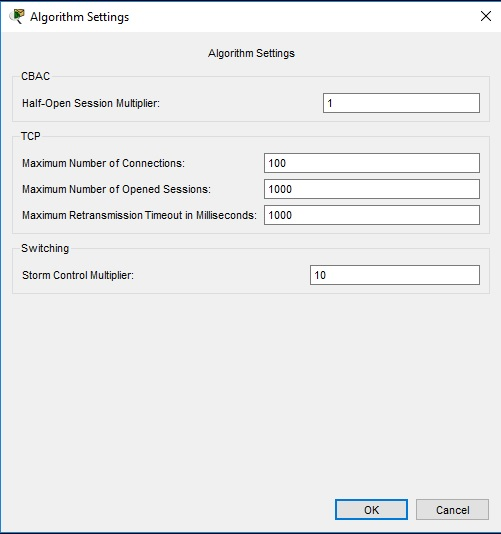
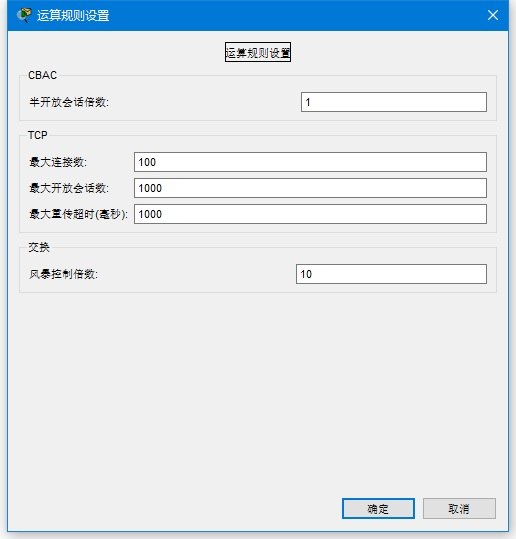
入门->首选项 翻译完毕

Changed region(s): [[0.0, 0.0, 1.0, 1.0], [0.5689, 0.1798, 0.5988, 0.2097]]

diff --git a/Simplified Chinese/preferences.htm b/Simplified Chinese/preferences.htm
@@ -161,49 +161,54 @@
       通常，当用户经历同一网络文件的多个创作周期时，这些自定义图像会累积。
       在这种情况下，该选项卡允许用户查看当前保存在文件中的自定义图像列表，并删除用户认为不再用于当前网络文件中的图像。<br />
       注意！！！一旦删除这些文件，它们可能无法恢复，除非在Packet Tracer外部保存了外部副本。<br />
-      删除仍由当前用户网络的组件之一使用的文件将导致占位符映像“找不到文件”映像被用于代替已删除的映像。
-      
-      In this case the panel at hand allows users to view the list
-      of custom images presently saved in the file and delete those that the
-      user believes are no longer used for anything in the current network file.
-      A note of caution needs to be voiced here that once these files are
-      removed from the file they may not be recoverable, unless there is an
-      external copy saved outside Packet Tracer. Removing a file that is still
-      being used by one of the components of the current user network would
-      result in the <em> placeholder image </em> <img src="images/gFileNotFound.png"
-
-        width="3%" alt="File Not Found Image">&nbsp;being used in place of the deleted one.</p>
-    <p class="myPic"> <img src="images/interfaceOverview_10.jpg" alt="Preferences Window - Image Cleanup Tab"> </p>
+      删除仍由当前用户网络的组件之一使用的文件将导致
+      <em>占位图标（placeholder image）</em>
+      <img src="images/gFileNotFound.png" width="3%" alt="找不到文件图标">用于代替已删除的映像。<br />
+    </p>
+    <p class="myPic"> <img src="images/interfaceOverview_10.jpg" alt="首选项窗口 - 图像清理选项卡"> </p>
     <p>&nbsp;</p>
-    <p class="MainHeading2" id="id_preferences_user_profile">Setting a User
-      Profile</p>
-    <p> You can set your user profile for activity assessment and Multiuser
-      identification. From the <strong>Menu Bar</strong>, select <strong>Options</strong>
-      &gt; <strong>User Profile</strong> to view the User Profile dialog. In
-      the User Profile dialog, you can enter your <strong>Name</strong>, <strong>E-Mail</strong>,
-      and any <strong>Additional Info</strong> about yourself that you may want
-      to share.</p>
+    <p class="MainHeading2" id="id_preferences_user_profile">设置用户资料</p>
+    <p>
+      里可以设置用户资料以进行活动评估和多用户表示。<br />
+      <strong>菜单栏（Menu Bar）</strong>中，
+      点击
+      <strong>Options</strong>->
+      <strong>用户资料（User Profile）</strong>，以显示用户资料对话框。<br />
+
+      在用户资料对话框中，您可以输入您的
+      <strong>姓名（Name）</strong>，
+      <strong>电子邮件（E-Mail）</strong>以及
+      <strong>附件信息（Additional Info）</strong>
+    </p>
     <p class="myPic"> <img src="images/interfaceOverview_7.jpg" alt="User Profile Window"> </p>
     <p>&nbsp;</p>
-    <p class="MainHeading2">Algorithm Settings</p>
-    <p>The <strong>Algorithms Settings</strong> dialog allows the user to make
-      configurations that are otherwise not available in IOS. It also allows
-      tweaking of algorithm settings to make visualization of certain
-      algorithm/protocol behaviors more easily viewable.</p>
-    <p>CBAC <strong>Half-Open Session Multiplier</strong>: If the number of
-      half-open CBAC sessions multiplied by this number exceeds the configured
-      max half-open session count, new sessions would not be opened.</p>
-    <p>TCP <strong>Maximum Number of Connections</strong>: If the number of
-      connections in SYN-RECEIVED state exceeds this number, any new connections
-      would be rejected.</p>
-    <p>TCP <strong>Maximum Number of Opened Sessions</strong>: If the number of
-      connections exceeds this number, any new connections would be rejected.</p>
-    <p>TCP <strong>Maximum Retransmission Timeout in Milliseconds </strong>:
-      If a TCP connection does not receive an acknowledgment to a segment it
-      transmitted in this number, it would retransmit the segment.</p>
-    <p>Switching <strong>Storm Control Multiplier</strong>: If the bandwidth
-      percentage of broadcast frames used multiplied by this number exceeds the
-      configured threshold, the broadcast frame would be dropped.</p>
-    <p class="myPic"> <img src="images/interfaceOverview_8.jpg" alt="Algorithm Settings Window"> </p>
+    <p class="MainHeading2">运算规则设置</p>
+    <p>
+      通过
+      <strong>运算规则设置（Algorithms Settings）</strong>，用户可以在IOS中进行不可用的配置。<br />
+      允许对运算规则设置进行调整，以使某些算法/协议的行为进行可视化处理。
+    </p>
+    <p>
+      CBAC
+      <strong>半开放会话倍数（Half-Open Session Multiplier）</strong>：
+      如果半开放会话倍数乘以该数字超过配置的最大限制，则不打开新会话。
+    </p>
+    <p>TCP
+      <strong>最大连接数（Maximum Number of Connections）</strong>：
+      如果处于SYN-RECEIVED状态的连接数超过此数目，则任何新连接都将被拒绝。
+    </p>
+    <p>TCP
+      <strong>最大开放会话数（Maximum Number of Opened Sessions）</strong>：
+      如果连接数超过此数目，则任何新连接都将被拒绝。
+    </p>
+    <p>TCP
+      <strong>最大重传超时（毫秒）（Maximum Retransmission Timeout in Milliseconds）</strong>:
+      如果TCP连接未收到以该编号传输的段的确认，将重新传输该段。
+    </p>
+    <p>Switching
+      <strong>风暴控制倍数（Storm Control Multiplier）</strong>：
+      如果使用的广播帧的带宽百分比乘以该数字超过配置的阈值，则广播帧将被丢弃。
+    </p>
+    <p class="myPic"><img src="images/interfaceOverview_8.jpg" alt="Algorithm Settings Window"></p>
   </body>
 </html>
